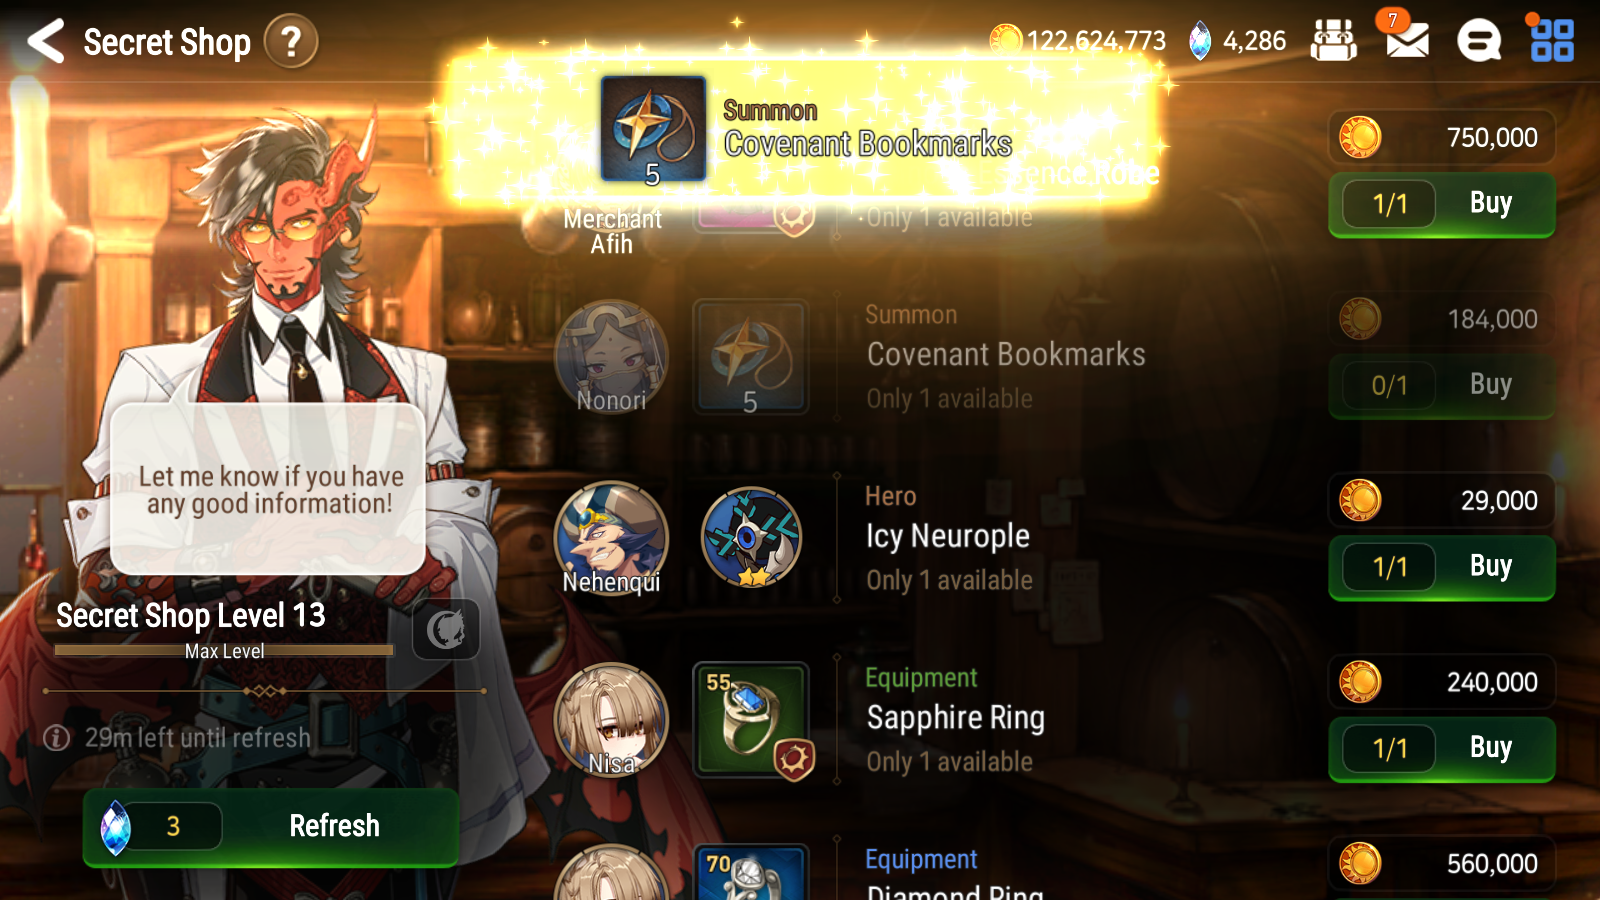
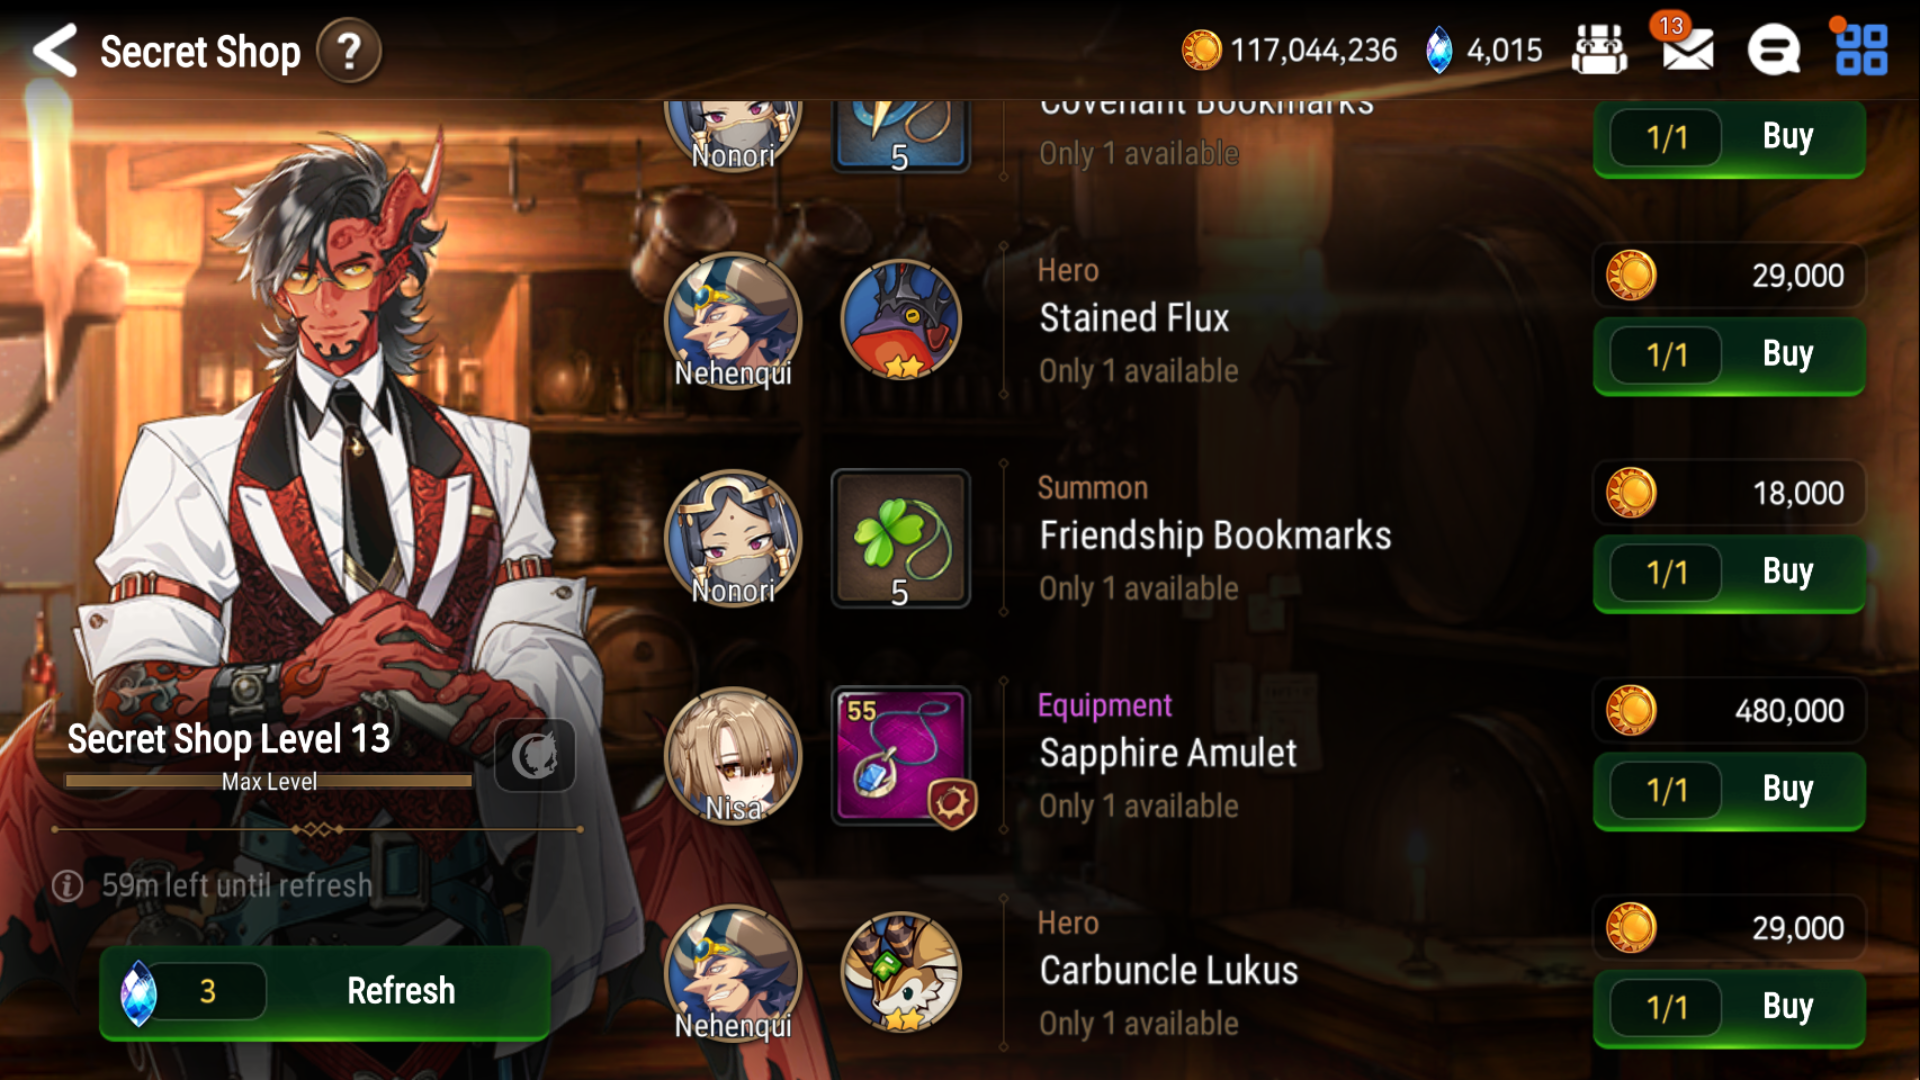
now refreshes shop and scrolls

diff --git a/autoshop.py b/autoshop.py
@@ -4,69 +4,97 @@ import utils
 import keyboard
 
 SCREENCAP_PATH = './screenshots/screen.png'
+REFRESH_CONFIRM_PATH = './screenshots/refresh_confirm.png'
 
-def click_loop(device, x, y, width, height, confirm_path, is_buy_confirm):
-    #Get random offsets based if the confirm menu is currently displayed
-    if is_buy_confirm:
-        x_offset, y_offset = utils.get_rand_buy_offsets(width, height)
-        confidence = 0.30
-    else:
-        x_offset, y_offset = utils.get_rand_offsets(width, height)
-        confidence = 0.40
+SHOP_ITEM_CONFIDENCE = 0.15
+CONFIRM_CONFIDENCE = 0.30
+REFRESH_CONFIRM_CONFIDENCE = 0.60
+
+#TODO Remove x and y from parameters and pass coordinates instead
+# device: device being operated on
+# x, y: x and y coordinates of the button to be clicked
+# confirm_button_path: path to the image containing the button to be checked for
+# offset_id: id for getting random offsets based on button being clicked
+# confidence: required confidence for image to pass
+def click_loop(device, x, y, confirm_button_path, offset_id, confidence):
+    x_offset, y_offset = utils.get_rand_offsets(device, offset_id)
 
     #Get random click length
     click_len = utils.get_rand_click_length()
 
     #Click on buy button
-    device.shell(utils.get_adb_click_str(x + x_offset, y + y_offset, click_len))
+    device.shell(utils.get_adb_swipe_str(x + x_offset, y + y_offset, x + x_offset, y + y_offset, click_len))
 
     #Wait for screen to appear and take new screenshot
     time.sleep(random.uniform(0.25, 0.75))
     utils.get_screencap(device, 'screen.png')
 
     #Look for confirm button
-    return utils.compare_images(confirm_path, SCREENCAP_PATH, confidence)
+    return utils.compare_images(confirm_button_path, SCREENCAP_PATH, confidence)
 
 def refresh_shop(device):
-    pass
+    confirm_coords = None
+
+    while not confirm_coords:
+        confirm_coords = click_loop(device, 0, 0, REFRESH_CONFIRM_PATH, 2, REFRESH_CONFIRM_CONFIDENCE)
+
+    x, y = confirm_coords    
+
+    #Loop while the confirm button is still on the screen
+    while confirm_coords:
+        confirm_coords = click_loop(device, x, y, REFRESH_CONFIRM_PATH, 3, CONFIRM_CONFIDENCE)
 
 def parse_shop(device):
-        resolution = device.shell('wm size').split()[-1].split('x')
-        width, height = resolution[:2]
-        utils.get_screencap(device, 'screen.png')
         has_scrolled = False
 
         while keyboard.is_pressed('q') == False:
+            if has_scrolled:
+                scroll_len = utils.get_rand_scroll_length()
+                scroll_coords = utils.get_rand_scroll(device, True)
+
+                print('scrolling from (' + str(int(scroll_coords[0])) + ', ' + str(int(scroll_coords[2])) + ') to (' + str(int(scroll_coords[0])) + ', ' + str(int(scroll_coords[3])) + ')')
+
+                device.shell(utils.get_adb_swipe_str(scroll_coords[0], scroll_coords[1], scroll_coords[2], scroll_coords[3], scroll_len))
+                time.sleep(random.uniform(0.25, 0.5))
+
+            utils.get_screencap(device, 'screen.png')
+
             #Look for covenants first, then mystics
+            time.sleep(random.uniform(0.4, 0.75))
+
             for i in range(2):
                 if i == 0:
                     image_path = './screenshots/covenant.png'
-                    confirm_path = './screenshots/covenant_confirm.png'
+                    confirm_button_path = './screenshots/covenant_confirm.png'
                 else:
                     image_path = './screenshots/mystic.png'
-                    confirm_path = './screenshots/mystic_confirm.png'
-
+                    confirm_button_path = './screenshots/mystic_confirm.png'
+ 
 
                 #Get coordinates for valid items in shop
-                coords = utils.compare_images(image_path, SCREENCAP_PATH, 0.40)
+                coords = utils.compare_images(image_path, SCREENCAP_PATH, SHOP_ITEM_CONFIDENCE)
 
                 #Check if there is a valid item
                 if not coords:
                     continue
-
-                #Get x and y values
+                
                 x, y = coords
                 confirm_coords = None
-                
+
                 #Loop until the confirm button is found
                 while not confirm_coords:
-                    confirm_coords = click_loop(device, x, y, width, height, confirm_path, False)
-                
-                #Get x and y values
-                buy_x, buy_y = confirm_coords
+                    confirm_coords = click_loop(device, x, y, confirm_button_path, 0, CONFIRM_CONFIDENCE)
 
+                x, y = confirm_coords
+
+                #Loop until confirm button is clicked
                 while confirm_coords:
-                    confirm_coords = click_loop(device, buy_x, buy_y, width, height, confirm_path, True)
+                    confirm_coords = click_loop(device, x, y, confirm_button_path, 1, CONFIRM_CONFIDENCE)
                 
-                if has_scrolled:
-                    refresh_shop(device)
+                time.sleep(random.uniform(1.0, 1.5))
+            
+            if has_scrolled:
+                refresh_shop(device)
+                has_scrolled = False
+            else:
+                has_scrolled = True

diff --git a/utils.py b/utils.py
@@ -4,6 +4,14 @@ import cv2
 MIN_CLICK_LEN = 100
 MAX_CLICK_LEN = 200
 
+MIN_SCROLL_LEN = 50
+MAX_SCROLL_LEN = 52
+
+SCROLL_MIN_X_OFFSET = 0.52
+SCROLL_MAX_X_OFFSET = 0.81
+SCROLL_MIN_Y_OFFSET = 0.13
+SCROLL_MAX_Y_OFFSET = 0.96
+
 WIDTH_MIN_OFFSET = 0.41
 WIDTH_MAX_OFFSET = 0.53
 HEIGHT_MIN_OFFSET = 0.07
@@ -14,6 +22,16 @@ BUY_MAX_X_OFFSET = 0.2
 BUY_MIN_Y_OFFSET = 0.01
 BUY_MAX_Y_OFFSET = 0.07
 
+REFRESH_MIN_X_OFFSET = 0.07
+REFRESH_MAX_X_OFFSET = 0.27
+REFRESH_MIN_Y_OFFSET = 0.89
+REFRESH_MAX_Y_OFFSET = 0.95
+
+REFRESH_CONFIRM_MIN_X_OFFSET = 0.03
+REFRESH_CONFIRM_MAX_X_OFFSET = 0.15
+REFRESH_CONFIRM_MIN_Y_OFFSET = 0.01
+REFRESH_CONFIRM_MAX_Y_OFFSET = 0.07
+
 def get_device(devices):
     for device in devices:
         try:
@@ -21,6 +39,9 @@ def get_device(devices):
             return device
         except:
             print('Device offline, trying next device...')
+
+def get_resolution(device):
+    return device.shell('wm size').split()[-1].split('x')
 
 def get_screencap(device, name):
     image = device.screencap()
@@ -50,16 +71,44 @@ def compare_images(image_path, sample_path, confidence):
 
     return coords
 
-def get_rand_offsets(width, height):
-    result = [float(width) * random.uniform(WIDTH_MIN_OFFSET, WIDTH_MAX_OFFSET), float(height) * random.uniform(HEIGHT_MIN_OFFSET, HEIGHT_MAX_OFFSET)]
+def get_rand_offsets(device, offset_id):
+    width, height = get_resolution(device)
+    #0 = buy button, 1 = buy confirm button, 2 = refresh button, 3 = refresh confirm button
+    offset_arr = offset_id_cases(offset_id)
+
+    result = [float(width) * random.uniform(offset_arr[0], offset_arr[1]), float(height) * random.uniform(offset_arr[2], offset_arr[3])]
     return result
 
-def get_rand_buy_offsets(width, height):
-    result = [float(width) * random.uniform(BUY_MIN_X_OFFSET, BUY_MAX_X_OFFSET), float(height) * random.uniform(BUY_MIN_Y_OFFSET, BUY_MAX_Y_OFFSET)]
-    return result
+def offset_id_cases(id):
+    return {
+        0 : [WIDTH_MIN_OFFSET, WIDTH_MAX_OFFSET, HEIGHT_MIN_OFFSET, HEIGHT_MAX_OFFSET],
+        1 : [BUY_MIN_X_OFFSET, BUY_MAX_X_OFFSET, BUY_MIN_Y_OFFSET, BUY_MAX_Y_OFFSET],
+        2 : [REFRESH_MIN_X_OFFSET, REFRESH_MAX_X_OFFSET, REFRESH_MIN_Y_OFFSET, REFRESH_MAX_Y_OFFSET],
+        3 : [REFRESH_CONFIRM_MIN_X_OFFSET, REFRESH_CONFIRM_MAX_X_OFFSET, REFRESH_CONFIRM_MIN_Y_OFFSET, REFRESH_CONFIRM_MAX_Y_OFFSET]
+    }[id]
 
-def get_adb_click_str(x, y, click_len):
-    return 'input touchscreen swipe ' + str(x) + ' ' + str(y) + ' ' + str(x) + ' ' + str(y) + ' ' + str(click_len)
+def get_adb_swipe_str(x1, y1, x2, y2, click_len):
+    return 'input touchscreen swipe ' + str(x1) + ' ' + str(y1) + ' ' + str(x2) + ' ' + str(y2) + ' ' + str(click_len)
 
 def get_rand_click_length():
     return random.randrange(MIN_CLICK_LEN, MAX_CLICK_LEN)
+
+def get_rand_scroll_length():
+    return random.randrange(MIN_SCROLL_LEN, MAX_SCROLL_LEN)
+
+def get_rand_scroll(device, is_down):
+    width, height = get_resolution(device)
+    x_offset = random.uniform(SCROLL_MIN_X_OFFSET, SCROLL_MAX_X_OFFSET)
+    rand_x_offset_offset = x_offset / 10
+    avg_y = (SCROLL_MIN_Y_OFFSET + SCROLL_MAX_Y_OFFSET) / 2
+
+    result = [float(width) * x_offset, float(height) * random.uniform(SCROLL_MIN_Y_OFFSET, avg_y - (avg_y / 10)),
+    float(width) * (x_offset - (rand_x_offset_offset) + (random.uniform(0.0, rand_x_offset_offset))),
+    float(height) * random.uniform(avg_y + (avg_y / 10), SCROLL_MAX_Y_OFFSET)]
+
+    #Change y positions if scrolling down
+    if is_down:
+        result[1], result[3] = result[3], result[1]
+
+    return result
+
